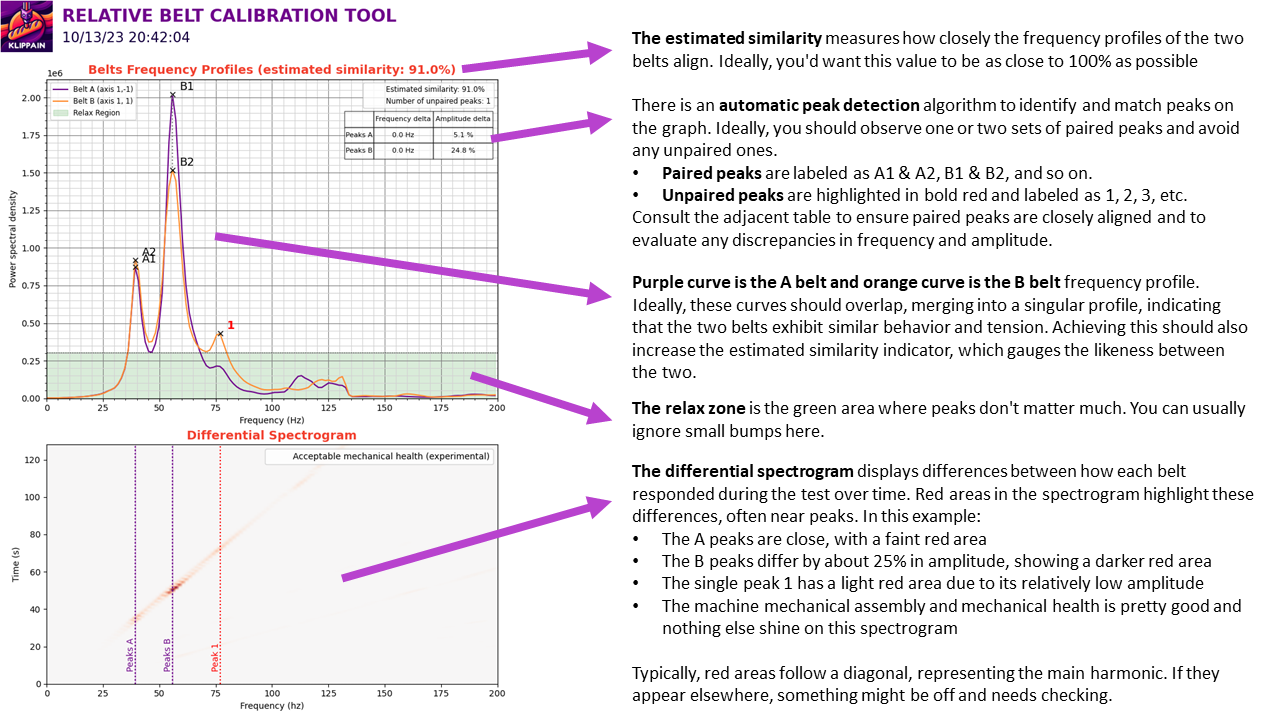
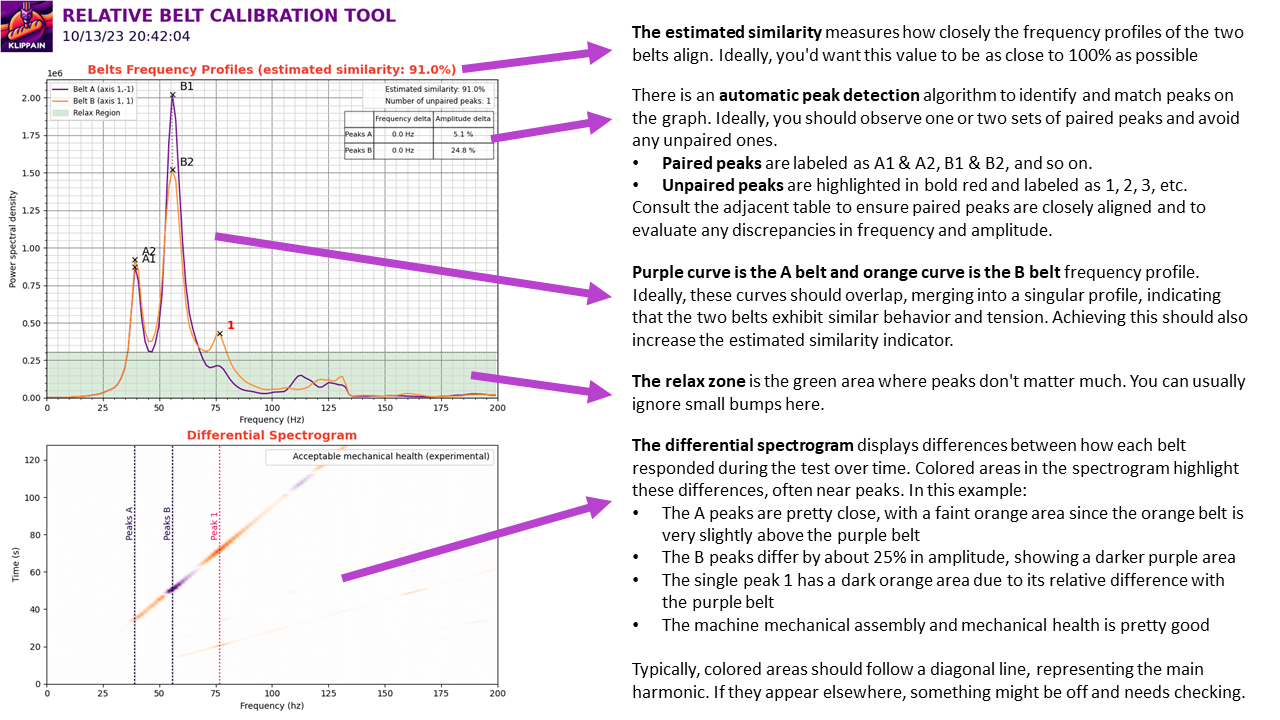
updated documentation

diff --git a/K-ShakeTune/scripts/graph_belts.py b/K-ShakeTune/scripts/graph_belts.py
@@ -212,14 +212,12 @@ def combined_spectrogram(data1, data2):
     pdata1, bins1, t1 = compute_spectrogram(data1)
     pdata2, bins2, t2 = compute_spectrogram(data2)
 
-    # Interpolate the spectrograms and apply logarithmic scaling
+    # Interpolate the spectrograms
     pdata2_interpolated = interpolate_2d(bins1, t1, bins2, t2, pdata2)
-    pdata1_log = np.log1p(pdata1 / np.max(pdata1))
-    pdata2_log = np.log1p(pdata2_interpolated / np.max(pdata2_interpolated))
-
-    # Combined spectrograms
+    
+    # Cobine them in two form: a summed diff for the MHI computation and a diverging diff for the spectrogram colors
     combined_sum = np.abs(pdata1 - pdata2_interpolated)
-    combined_divergent = pdata1_log - pdata2_log
+    combined_divergent = pdata1 - pdata2_interpolated
 
     return combined_sum, combined_divergent, bins1, t1
 
@@ -388,11 +386,9 @@ def plot_difference_spectrogram(ax, data1, data2, signal1, signal2, similarity_f
     ax.plot([], [], ' ', label=f'{textual_mhi} (experimental)')
     
     # Draw the differential spectrogram with a specific custom norm to get orange or purple values where there is signal or white near zeros
-    colors = [KLIPPAIN_COLORS['orange'], 'white', 'white', KLIPPAIN_COLORS['purple']]  
-    n_bins = [0, 0.3, 0.7, 1] # These values where found experimentaly to get a good higlhlighting of the differences only
-    cm = matplotlib.colors.LinearSegmentedColormap.from_list('klippain_divergent', list(zip(n_bins, colors)))
-    # norm = matplotlib.colors.Normalize(vmin=np.min(combined_divergent), vmax=np.max(combined_divergent))
-    norm = matplotlib.colors.SymLogNorm(linthresh=0.01, vmin=np.min(combined_divergent), vmax=np.max(combined_divergent), base=10, clip=False)
+    colors = [KLIPPAIN_COLORS['dark_orange'], KLIPPAIN_COLORS['orange'], 'white', KLIPPAIN_COLORS['purple'], KLIPPAIN_COLORS['dark_purple']]  
+    cm = matplotlib.colors.LinearSegmentedColormap.from_list('klippain_divergent', list(zip([0, 0.25, 0.5, 0.75, 1], colors)))
+    norm = matplotlib.colors.TwoSlopeNorm(vmin=np.min(combined_divergent), vcenter=0, vmax=np.max(combined_divergent))
     ax.pcolormesh(t, bins, combined_divergent.T, cmap=cm, norm=norm, shading='gouraud')
 
     ax.set_xlabel('Frequency (hz)')

diff --git a/docs/README.md b/docs/README.md
@@ -2,17 +2,58 @@
 
 ![](./banner_long.png)
 
-### Detailed documentation
+## Resonance testing
 
-Before running any tests, you should first run the `AXES_MAP_CALIBRATION` macro to detect the and set Klipper's accelerometer axes_map parameter and validate that your accelerometer is working correctly and properly mounted. Then, check out **[input shaping and tuning generalities](./is_tuning_generalities.md)** to understand how it all works and what to look for when taking these measurements.
+First, check out the **[input shaping and tuning generalities](./is_tuning_generalities.md)** documentation to understand how it all works and what to look for when taking these measurements.
 
-Finally look at the documentation for each type of graph by clicking on them below tu run the tests and better understand your results to tune your machine!
+Then look at the documentation for each type of graph by clicking on them below tu run the tests and better understand your results to tune your machine!
 
 | [Belts graph](./macros/belts_tuning.md) | [Axis input shaper graphs](./macros/axis_tuning.md) | [Vibrations graph](./macros/vibrations_tuning.md) |
 |:----------------:|:------------:|:---------------------:|
 | [<img src="./images/belts_example.png">](./macros/belts_tuning.md) | [<img src="./images/axis_example.png">](./macros/axis_tuning.md) | [<img src="./images/vibrations_example.png">](./macros/vibrations_tuning.md) |
 
 
-### Complementary ressources
+## Additional macros
+
+### AXES_MAP_CALIBRATION
+
+All graphs generated by this package show plots based on accelerometer measurements, typically labeled with the X, Y, and Z axes. It's important to note that if the accelerometer is rotated, its axes may not align correctly with the machine axes, making the plots more difficult to interpret, analyze, and understand. The `AXES_MAP_CALIBRATION` is designed to automatically measure the alignement of the accelerometer in order to set it correctly.
+
+  > **Note**:
+  >
+  > This misalignment doesn't affect the measurements because the total sum across all axes is used to set the input shaper filters. It's just an optional but convenient way to configure Klipper's `[adxl345]` (or whichever accelerometer you have) "axes_map" parameter.
+
+Here are the parameters available when calling this macro:
+
+| parameters | default value | description |
+|-----------:|---------------|-------------|
+|Z_HEIGHT|20|z height to put the toolhead before starting the movements. Be careful, if your accelerometer is mounted under the nozzle, increase it to avoid crashing it on the bed of the machine|
+|SPEED|80|speed of the toolhead in mm/s for the movements|
+|ACCEL|1500 (or max printer accel)|accel in mm/s^2 used for all the moves|
+|TRAVEL_SPEED|120|speed in mm/s used for all the travels moves|
+|ACCEL_CHIP|"adxl345"|accelerometer chip name in the config|
+
+The machine will move slightly in +X, +Y, and +Z, and output in the console: `Detected axes_map: -z,y,x`.
+
+Use this value in your `printer.cfg` config file:
+```
+[adxl345] # replace "adxl345" by your correct accelerometer name
+axes_map: -z,y,x
+```
+
+### EXCITATE_AXIS_AT_FREQ
+
+The `EXCITATE_AXIS_AT_FREQ` macro is particularly useful for troubleshooting mechanical vibrations or resonance issues. This macro allows you to maintain a specific excitation frequency for a set duration, enabling hands-on diagnostics. By touching different components during the excitation, you can identify the source of the vibration, as contact usually stops it.
+
+Here are the parameters available when calling this macro:
+
+| parameters | default value | description |
+|-----------:|---------------|-------------|
+|FREQUENCY|25|excitation frequency (in Hz) that you want to maintain. Usually, it's the frequency of a peak on one of the graphs|
+|TIME|10|time in second to maintain this excitation|
+|AXIS|x|axis you want to excitate. Can be set to either "x", "y", "a", "b"|
+
+
+## Complementary ressources
 
   - [Sineos post](https://klipper.discourse.group/t/interpreting-the-input-shaper-graphs/9879) in the Klipper knowledge base

diff --git a/docs/is_tuning_generalities.md b/docs/is_tuning_generalities.md
@@ -13,16 +13,16 @@ When a 3D printer moves, the motors apply some force to move the toolhead along 
 ## Generalities on the graphs
 
 When tuning Input Shaper, keep the following in mind:
-  1. **Focus on the shape of the graphs, not the exact numbers**. There could be differences between ADXL boards or even printers, so there is no specific "target" value. This means that you shouldn't expect to get the same graphs between different printers, even if they are similar in term of brand, parts, size and assembly.
-  1. Small differences between consecutive test runs are normal, as ADXL quality and sensitivity is quite variable between boards.
+  1. **Focus on the shape of the graphs, not the exact numbers**. There could be differences between accelerometer boards or even printers, so there is no specific "target" value. This means that you shouldn't expect to get the same graphs between different printers, even if they are similar in term of brand, parts, size and assembly.
+  1. Small differences between consecutive test runs are normal, as accelerometer quality and sensitivity is quite variable between boards.
   1. Perform the tests when the machine is heat-soaked and close to printing conditions, as the temperature will impact the machine components such as belt tension or even the frame that is known to expand a little bit.
   1. Avoid running the toolhead fans during the tests, as they introduce unnecessary noise to the graphs, making them harder to interpret. This means that even if you should heatsoak the printer, you should also refrain from activating the hotend heater during the test, as it will also trigger the hotend fan. However, as a bad fan usually introduce some vibrations, you can use the test to diagnose an unbalanced fan as seen in the [Examples of Input Shaper graphs](./macros/axis_tuning.md) section.
-  1. Ensure the accuracy of your ADXL measurements by running a `MEASURE_AXES_NOISE` test and checking that the result is below 100 for all axes. If it's not, check your ADXL board and wiring before continuing.
+  1. Ensure the accuracy of your accelerometer measurements by running a `MEASURE_AXES_NOISE` test and checking that the result is below 100 for all axes. If it's not, check your accelerometer board and wiring before continuing.
   1. The graphs can only show symptoms of possible problems and in different ways. Those symptoms can sometimes suggest causes, but they rarely pinpoint the exact issues. For example, while you may be able to diagnose that some screws are not tightened properly, you will unlikely find which exact screw is problematic using only these tests. You will most always need to tinker and experiment.
   1. Finally, remember why you're running these tests: to get clean prints. Don't become too obsessive over perfect graphs, as the last bits of optimization will probably have the least impact on the printed parts in terms of ringing and ghosting.
 
 
-### Special note on accelerometer (ADXL) mounting point
+### Special note on accelerometer mounting point
 Input Shaping algorithms work by suppressing a single resonant frequency (or a range around a single resonant frequency). When setting the filter, **the primary goal is to target the resonant frequency of the toolhead and belts system** (see the [theory behind it](#theory-behind-it)), as this has the most significant impact on print quality and is the root cause of ringing.
 
 When setting up Input Shaper, it is important to consider the accelerometer mounting point. There are mainly two possibilities, each with its pros and cons:

diff --git a/docs/macros/vibrations_tuning.md b/docs/macros/vibrations_tuning.md
@@ -15,7 +15,7 @@ Call the `VIBRATIONS_CALIBRATION` macro with the direction and speed range you w
 |-----------:|---------------|-------------|
 |SIZE|60|size in mm of the area where the movements are done|
 |DIRECTION|"XY"|direction vector where you want to do the measurements. Can be set to either "XY", "AB", "ABXY", "A", "B", "X", "Y", "Z", "E"|
-|Z_HEIGHT|20|z height to put the toolhead before starting the movements. Be careful, if your ADXL is under the nozzle, increase it to avoid a crash of the ADXL on the bed of the machine|
+|Z_HEIGHT|20|z height to put the toolhead before starting the movements. Be careful, if your accelerometer is mounted under the nozzle, increase it to avoid crashing it on the bed of the machine|
 |ACCEL|3000 (or max printer accel)|accel in mm/s^2 used for all the moves. Try to keep it relatively low to avoid bad oscillations that affect the measurements, but but high enough to reach constant speed for >~70% of the segments|
 |MIN_SPEED|20|minimum speed of the toolhead in mm/s for the movements|
 |MAX_SPEED|200|maximum speed of the toolhead in mm/s for the movements|
@@ -32,7 +32,7 @@ Call the `VIBRATIONS_CALIBRATION` macro with the direction and speed range you w
 
 These graphs essentially depict the behavior of the motor control on your machine. While there isn't much room for easy adjustments to enhance them, most of you should only utilize them to configure your slicer profile to avoid problematic speeds.
 
-However, if you want to go the rabbit hole, as the data in these graphs largely hinges on the type of motors and their physical characteristic and their control by the TMC black magic, there are opportunities for optimization. Tweaking TMC parameters allow to adjust the peaks, enhance machine performance, or diminish overall machine noise. For this process, I recommend to directly use the [Klipper TMC Autotune](https://github.com/andrewmcgr/klipper_tmc_autotune) plugin, which should simplify everything considerably. But keep in mind that it's still an experimental plugin and it's not perfect.
+However, if you want to go the rabbit hole, as the data in these graphs largely hinges on the type of motors, their physical characteristic and the way they are controlled by the TMC drivers black magic, there are opportunities for optimization. Tweaking TMC parameters allow to adjust the peaks, enhance machine performance, or diminish overall machine noise. For this process, I recommend to directly use the [Klipper TMC Autotune](https://github.com/andrewmcgr/klipper_tmc_autotune) plugin, which should simplify everything considerably. But keep in mind that it's still an experimental plugin and it's not perfect.
 
 For individuals inclined to reach the bottom of the rabbit hole and that want to handle this manually, the use of an oscilloscope is mandatory. Majority of the necessary resources are available directly on the Trinamics TMC website:
   1. You should first consult the datasheet specific to your TMC model for guidance on parameter names and their respective uses.

diff --git a/README.md b/README.md
@@ -20,11 +20,12 @@ Check out the **[detailed documentation of the Shake&Tune module here](./docs/RE
 ## Installation
 
 Follow these steps to install the Shake&Tune module in your printer:
-  1. Run the install script over SSH on your printer:
+  1. Be sure to have a working accelerometer on your machine. You can follow the official [Measuring Resonances Klipper documentation](https://www.klipper3d.org/Measuring_Resonances.html) to configure one. Validate with an `ACCELEROMETER_QUERY` command that everything works correctly.
+  1. Then, you can install the Shake&Tune package by running over SSH on your printer:
      ```bash
      wget -O - https://raw.githubusercontent.com/Frix-x/klippain-shaketune/main/install.sh | bash
      ```
-  1. Append the following to your `printer.cfg` file:
+  1. Finally, append the following to your `printer.cfg` file and restart Klipper (if prefered, you can include only the needed macros: using `*.cfg` is a convenient way to include them all at once):
      ```
      [include K-ShakeTune/*.cfg]
      ```
@@ -47,9 +48,10 @@ Follow these steps to install the Shake&Tune module in your printer:
 ## Usage
 
 Ensure your machine is homed, then invoke one of the following macros as needed:
+  - `AXES_MAP_CALIBRATION` to automatically find Klipper's `axes_map` parameter for your accelerometer orientation (be careful, this is experimental for now).
   - `BELTS_SHAPER_CALIBRATION` for belt resonance graphs, useful for verifying belt tension and differential belt paths behavior.
   - `AXES_SHAPER_CALIBRATION` for input shaper graphs to mitigate ringing/ghosting by tuning Klipper's input shaper system.
-  - `VIBRATIONS_CALIBRATION` for machine vibration graphs to optimize your slicer speed profiles.
+  - `VIBRATIONS_CALIBRATION` for machine and motors vibration graphs, used to optimize your slicer speed profiles and TMC drivers parameters.
   - `EXCITATE_AXIS_AT_FREQ` to sustain a specific excitation frequency, useful to let you inspect and find out what is resonating.
 
-For further insights on the usage of the macros and the generated graphs, refer to the [K-Shake&Tune module documentation](./docs/README.md).
+For further insights on the usage of these macros and the generated graphs, refer to the [K-Shake&Tune module documentation](./docs/README.md).

diff --git a/docs/macros/axis_tuning.md b/docs/macros/axis_tuning.md
@@ -111,7 +111,7 @@ Such graph patterns can arise from various factors, and there isn't a one-size-f
 
 ### Problematic CANBUS speed
 
-Using CANBUS toolheads with an integrated ADXL chip can sometimes pose challenges if the CANBUS speed is set too low. While users might lower the bus speed to fix Klipper's timing errors, this change will also affect input shaping measurements. An example outcome of a low bus speed is the following graph that, though generally well-shaped, appears jagged and spiky throughout. Additional low-frequency energy might also be present. For optimal ADXL board operation on your CANBUS toolhead, a speed setting of 500k is the minimum, but 1M is advisable.
+Using CANBUS toolheads with an integrated accelerometer chip can sometimes pose challenges if the CANBUS speed is set too low. While users might lower the bus speed to fix Klipper's timing errors, this change will also affect input shaping measurements. An example outcome of a low bus speed is the following graph that, though generally well-shaped, appears jagged and spiky throughout. Additional low-frequency energy might also be present. For optimal accelerometer board operation on your CANBUS toolhead, a speed setting of 500k is the minimum, but 1M is advisable.
 
 | CANBUS problem present | CANBUS problem solved |
 | --- | --- |
